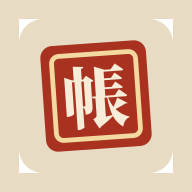
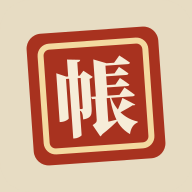
fix(零碎): 九條各自獨立、但都會在真機上被看見
D1 ScanScreen 的 <video> **漏了 playsInline**，而同專案 SyncScreen 的同款 video 有
⇒ iOS 上掃發票的相機會嘗試全螢幕播放。順帶補 aria-hidden（即時影像對輔助技術沒有意義）。
**這條我驗不到**（需要真機 iOS），改動本身是與 SyncScreen 對齊。

D2 apple-mobile-web-app-status-bar-style 固定 default（淺底黑字），而
viewport-fit=cover + 全面的 env(safe-area-inset-*) 早就就位 ⇒ 夜墨下狀態列與內容之間
留一條不隨主題變的淺色帶。改 black-translucent。同樣需要真機驗。

D3 maskable 與 any 共用同一張圖，而 make-icons.mjs **沒有 flatten**：favicon.svg 的
圓角是透明的，內縮 80% 之後那圈透明角落還在 ⇒ Android adaptive icon 合成時穿底缺角，
而且圖裡已自帶圓角、OS 再套一層＝雙重內縮。現在 any 走滿版、maskable 走安全區，
兩張都 flatten。實測四張圖 isOpaque=true。manifest 分開指，並補 orientation: portrait。

D4 _headers 沒有任何規則覆蓋 index.html／SPA 入口／manifest／根層圖示。index.html
指名的是帶 hash 的 assets，而那些檔案下一次部署就從 dist 消失了——非 SW 控制的 client
（首訪、iOS 回收 SW 後、隱私視窗、停用 SW）拿到帶 max-age 的舊 index.html ⇒ 引用的 JS
全部 404 ⇒ 白畫面，而 version.json 輪詢救不了（bundle 根本沒載進來）。

D5 _headers 的註解提到 offline.html，但那個檔案不存在（離線走 navigateFallback）。

D6 motion.css 的 reduced-motion 清單漏了 .note-chip（.paper-label 的躺平版孿生元件、
同一組 transition）。根因是那條政策**只涵蓋 @keyframes**，transition 完全在守備範圍外。
補進清單，並把 styles.test.ts 擴到 transition——已驗證拿掉 .note-chip 那條會紅且點名它。

D7 ErrorBoundary 用 <div className="modal-title">（而且 </div> 配 <h2> 的標籤都對不上），
ConfirmDialog 用 <h3>。同 class 同角色兩種元素，而崩潰卡是最需要被讀到的畫面。

D8 刪掉零 consumer 的 FadeImg（連同 base.css 的 .fade-img）。

D9 BACKLOG：#10 夜墨主題標成完成並記下三處與原規劃不同的做法；「順手記下的」更新
（.split-* 與 FadeImg 都已處理，但**反向清查仍未做**——現有測試只驗「TSX 用到的 class
有被定義」，不驗「定義了卻沒人用」）。另記一條**做不到的限制**：manifest 的
background_color 是靜態 JSON，安裝後的 Android splash 讀它、執行期的首漆 script 碰不到
[…]

diff --git a/packages/client/test/styles.test.ts b/packages/client/test/styles.test.ts
@@ -101,6 +101,33 @@ describe('styles barrel（順序即契約）', () => {
     );
   });
 
+  /**
+   * reduced-motion 的政策點宣稱自己是全站唯一，但它只涵蓋 @keyframes——
+   * `transition` 完全在守備範圍外，於是 `.note-chip`（`.paper-label` 的躺平版孿生元件、
+   * 同一組 transition）默默漏了很久。這條把 transition 也納進來。
+   */
+  it('有 transition 的互動元件都要在 motion.css 的 reduced-motion 清單裡', () => {
+    const motion = strip(leaf('motion.css'));
+    // motion.css 自己的規則不算來源
+    const declared = new Set<string>();
+    for (const m of motion.matchAll(/\.([a-z][\w-]*)/g)) declared.add(m[1]!);
+    const missing: string[] = [];
+    for (const name of onDisk) {
+      if (name === 'motion.css') continue;
+      const body = strip(leaf(name));
+      for (const rule of body.matchAll(/([^{}]+)\{([^}]*)\}/g)) {
+        if (!/(^|[;\s])transition:/.test(rule[2]!)) continue;
+        for (const sel of rule[1]!.split(',')) {
+          const last = sel.trim().split(/\s+/).pop() ?? '';
+          const cls = /^\.([a-z][\w-]*)/.exec(last)?.[1];
+          // 只管 class 選擇器；偽類（:hover 等）跟著本體走
+          if (cls && !declared.has(cls)) missing.push(`${name}: .${cls}`);
+        }
+      }
+    }
+    expect([...new Set(missing)], '這些元件有 transition 但沒進 motion.css 的 reduced-motion 清單').toEqual([]);
+  });
+
   it('motion.css 補回 stroke-dashoffset 終值（只寫 animation:none 會讓統計圖永久空白）', () => {
     const body = fs.readFileSync(path.join(LEAF_DIR, 'motion.css'), 'utf8');
     expect(body).toMatch(/stroke-dashoffset:\s*0/);

diff --git a/packages/client/index.html b/packages/client/index.html
@@ -12,7 +12,9 @@
     <link rel="icon" href="/favicon.svg" type="image/svg+xml" />
     <link rel="apple-touch-icon" href="/apple-touch-icon.png" />
     <meta name="apple-mobile-web-app-capable" content="yes" />
-    <meta name="apple-mobile-web-app-status-bar-style" content="default" />
+    <!-- black-translucent 配 viewport-fit=cover + 全面的 env(safe-area-inset-*)：
+         default 是淺底黑字，夜墨下狀態列與內容之間會留一條不隨主題變的淺色帶 -->
+    <meta name="apple-mobile-web-app-status-bar-style" content="black-translucent" />
     <meta name="apple-mobile-web-app-title" content="柴米帳" />
     <link rel="manifest" href="/manifest.webmanifest" />
     <link rel="preload" as="font" href="/fonts/zb-brush.woff2" type="font/woff2" crossorigin />

diff --git a/packages/client/src/ui/ScanScreen.tsx b/packages/client/src/ui/ScanScreen.tsx
@@ -363,7 +363,9 @@ export function ScanScreen() {
       {!result && (
         <>
           <div className="scan-viewport">
-            <video ref={videoRef} className="scan-video" muted />
+            {/* playsInline 不可少：少了它 iOS 會把相機流拿去全螢幕播放（同檔 SyncScreen 的
+                同款 video 有，這裡漏了）。aria-hidden：即時影像對輔助技術沒有意義。 */}
+            <video ref={videoRef} className="scan-video" muted playsInline aria-hidden="true" />
             {phase === 'camera' && (
               <div className="scan-frame" aria-hidden="true">
                 <div className="scan-target" />

diff --git a/packages/client/src/ui/ErrorBoundary.tsx b/packages/client/src/ui/ErrorBoundary.tsx
@@ -39,7 +39,7 @@ export class ErrorBoundary extends Component<Props, State> {
     return (
       <div className="crash-screen">
         <div className="modal-card crash-card">
-          <div className="modal-title">{CRASH.title}</div>
+          <h2 className="modal-title">{CRASH.title}</h2>
           <div className="modal-body">{CRASH.body}</div>
           {digest && <div className="crash-digest">{digest}</div>}
           <div className="modal-actions">

diff --git a/packages/client/src/styles/base.css b/packages/client/src/styles/base.css
@@ -240,10 +240,6 @@ body {
   to { opacity: 1; transform: none; }
 }
 
-/* 載完淡入的圖（ui/FadeImg.tsx） */
-.fade-img { opacity: 0; transition: opacity 260ms ease; }
-.fade-img.loaded { opacity: 1; }
-
 /* 全域焦點環：亮金（鍵盤可達性） */
 :is(.primary-btn, .ghost-btn, .seg-btn, .danger-btn, .nav-btn, .corner-btn):focus-visible {
   outline: 2px solid var(--gold-bright);

diff --git a/packages/client/src/styles/motion.css b/packages/client/src/styles/motion.css
@@ -26,8 +26,9 @@
   .seg-btn,
   .corner-btn,
   .paper-label,
-  .nav-btn,
-  .fade-img {
+  /* .note-chip 是 .paper-label 的躺平版孿生元件，同一組 transition，原本漏了 */
+  .note-chip,
+  .nav-btn {
     transition-duration: 1ms;
   }
 

diff --git a/docs/BACKLOG.md b/docs/BACKLOG.md
@@ -193,7 +193,10 @@
 
 > **2026-08-06 v3 已完成**：S 級 1–9 全數完成、#11 的兩個子項（分身防呆／掃碼加入）完成，
 > 另加使用者指定的「手機排版總整理」與兩個規劃期查出的資料安全缺陷修補。
-> 剩下 #10 夜墨主題、#11a 配對密鑰、#12 記錄搜尋、發票對獎彩蛋。
+>
+> **2026-08-07 v5–v8 已完成**：v5 同步靜默失敗 12 條、v6 硬編碼色收編成 token、
+> **v7 #10 夜墨主題（拓本墨）**、v8 通知鏈／資料留存／規模／低視力四組。
+> 剩下 #11a 配對密鑰、#12 記錄搜尋、發票對獎彩蛋、以及原則五的圈層（ledgerId）。
 
 ## ✅ S 級快贏包（v3 已完成）
 
@@ -217,7 +220,20 @@
 
 ## 待辦
 
-10. **夜墨主題**：深墨 token 一組。**先決條件**：約 30 處逃逸的硬編碼色要收編成 token，
+10. ~~**夜墨主題**~~ — **v7 已完成**（PR #7）。實際收編了 **57 處**硬編碼色（不是估的 30），
+    其中 17 處藏在 box-shadow 裡。做法與當初的設想有三處不同，記下來：
+    (a) 陰影 token 存**整條 box-shadow 值**而不是只存顏色——墨底下要換的往往是一整套做法；
+    (b) `--red` 必須**拆成底與前景兩顆**（danger 鈕的底要夠深才壓得住白字、印章字要夠亮
+    才在近黑上讀得到，一顆 token 滿足不了相反的兩個要求）；
+    (c) 主要鈕的玉青漸層在夜墨**壓得比宣紙暗**——量了才發現宣紙那組白字只有 3.70:1。
+    ⚠ **已知限制（做不到，不是漏做）**：manifest 的 `background_color` 是靜態 JSON，
+    安裝後的 Android splash 讀它，執行期的首漆 script 碰不到 ⇒ **夜墨使用者從主畫面
+    冷啟動仍會先看到一屏米色**。要修得供動態 manifest（把純靜態部署變成有 Worker），
+    為了一屏過場不划算。
+
+    <details><summary>原始規劃（存查）</summary>
+
+    深墨 token 一組。**先決條件**：約 30 處逃逸的硬編碼色要收編成 token，
     其中**陰影是最容易漏的一類**——黑色陰影在墨底上等於消失，每張卡會靜靜失去立體感。
     已知散落點：`.money-card` 漸層與 `--card-accent`、`.text-input` `#fdf8ec`、`.backup-nag`、
     `.app-toast`/`.app-toast-btn`、`.scroll-banner` 邊框與木軸、`.paper-label` 陰影、
@@ -230,6 +246,8 @@
     另需：`:root[data-theme='ink']` + index.html 的首漆內聯 script（否則夜墨使用者先閃一下白紙）、
     `theme-color` meta 跟著換、設定頁三段切換（跟隨系統/宣紙/夜墨）。
     建議配一條 token 對稱性測試：亮色區塊有的 token，暗色區塊必須也有。
+
+    </details>
 
 11. **配對密鑰一鍵同步**（#11 三子項只剩這個）：首次同步交換密鑰存 PeerInfo，
     之後「與{對方名}同步」一鍵，房間 id 由 HMAC(密鑰) 派生。
@@ -258,10 +276,11 @@
 
 ## 順手記下的、還沒處理的
 
-- `PersonSplit.tsx` 用了 `.split-row`/`.split-name`/`.split-amount` 三個**任何 CSS 檔都沒定義**的
-  class（≥3 人才會走到，夫妻倆碰不到）。同類的還有 `.brush-text`、`.split-bar`，
-  以及完全沒有消費者的 `FadeImg`（連帶 base.css 的 `.fade-img` 是死碼）。
-  值得單獨一輪「className 字面量 vs 已定義選擇器」的清查，並補一條測試。
+- ~~`PersonSplit.tsx` 的 `.split-*` 未定義 class~~ — v4 已修，並補了
+  「TSX className 字面量都要在某支葉檔裡定義得到」的測試（`styles.test.ts`）。
+  ~~`FadeImg` 死碼~~ — v8 已刪（連同 `base.css` 的 `.fade-img`）。
+  **反向的清查仍未做**：那條測試只驗「TSX 用到的 class 有被定義」，不驗
+  「定義了卻沒人用」——死 CSS 選擇器目前沒有機器守著（死 **token** 有）。
 - 分類籤條的有效觸控寬是 37px（`.paper-label::after` 撐出來的），**未達 44px 下限**。
   要真的到 44 得把籤條加粗一倍、比例從 1:2.8 變 1:1.7，那就不是籤條了——這是刻意的取捨，
   記在這裡是為了下次有人量到時知道不是漏掉。
